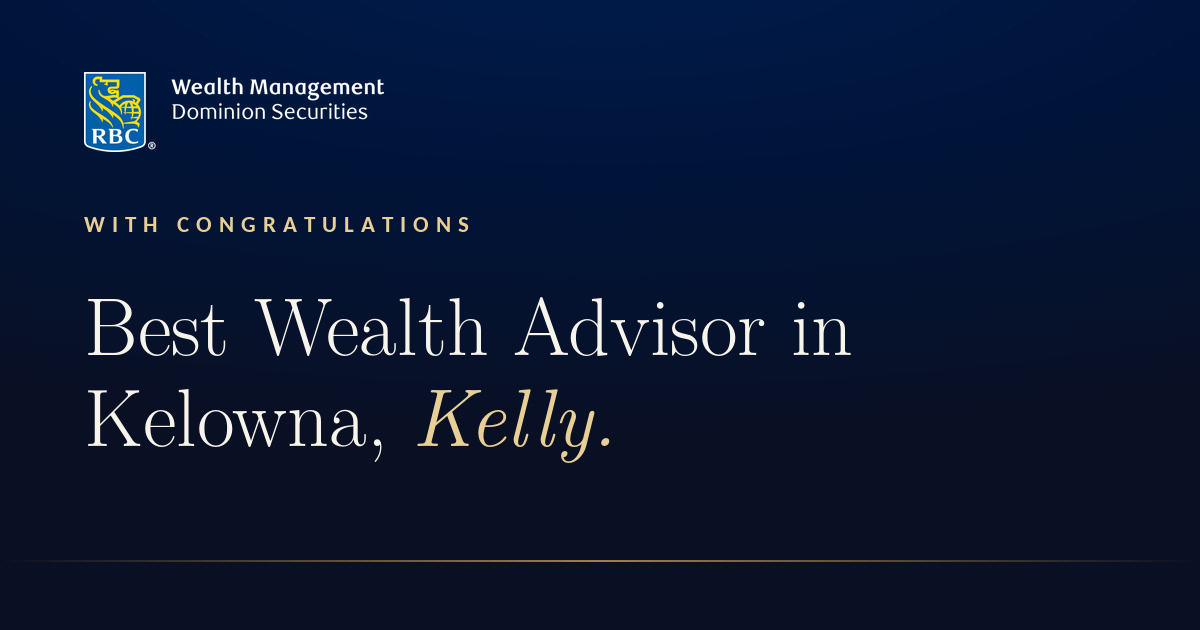
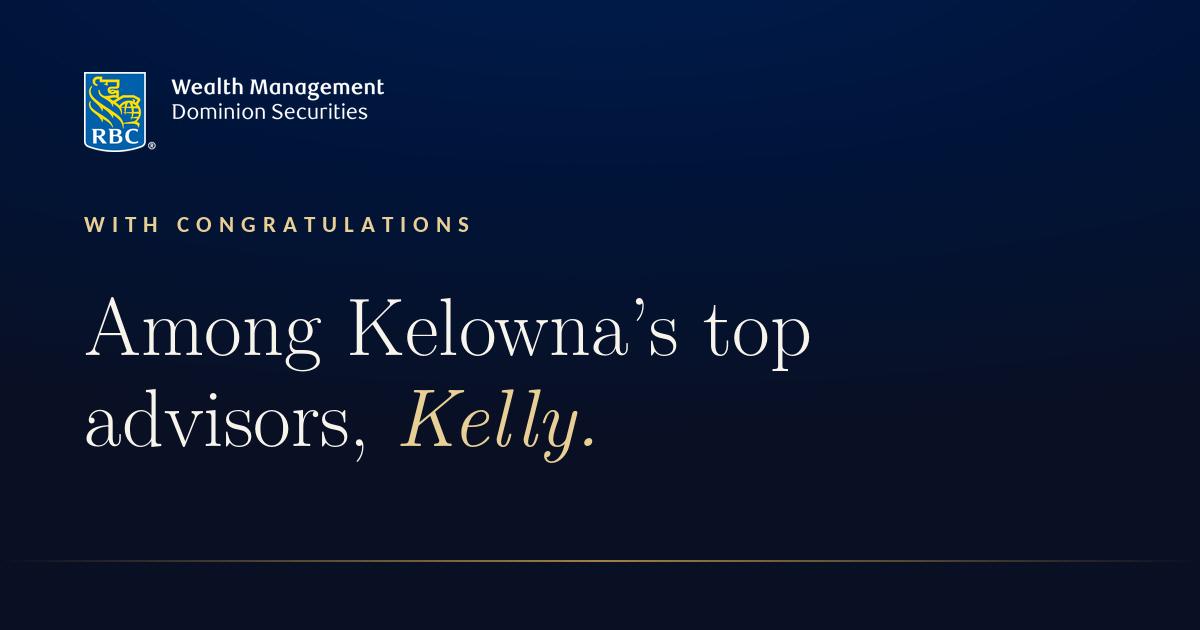
Add files via upload

Changed region(s): [[0.0617, 0.4524, 0.7092, 0.6032], [0.0617, 0.6032, 0.4933, 0.754]]

diff --git a/index.html b/index.html
@@ -11,14 +11,14 @@
      ============================================================ -->
 <meta property="og:type" content="website">
 <meta property="og:title" content="Dinner, on us — congratulations, Kelly">
-<meta property="og:description" content="Best Wealth Advisor in Kelowna. A dinner at Roma Nord, with congratulations from RBC Dominion Securities.">
+<meta property="og:description" content="Top-three across Kelowna's wealth & finance advisor categories. A dinner at Roma Nord, with congratulations from RBC Dominion Securities.">
 <meta property="og:image" content="https://rbc-congrats-kelly.vercel.app/kelly-preview.png">
 <meta property="og:image:width" content="1200">
 <meta property="og:image:height" content="630">
-<meta property="og:image:alt" content="With congratulations, Kelly — Best Wealth Advisor in Kelowna. RBC Dominion Securities.">
+<meta property="og:image:alt" content="With congratulations, Kelly — among Kelowna's top advisors. RBC Dominion Securities.">
 <meta name="twitter:card" content="summary_large_image">
 <meta name="twitter:title" content="Dinner, on us — congratulations, Kelly">
-<meta name="twitter:description" content="Best Wealth Advisor in Kelowna. A dinner at Roma Nord, with congratulations from RBC Dominion Securities.">
+<meta name="twitter:description" content="Top-three across Kelowna's wealth & finance advisor categories. A dinner at Roma Nord, with congratulations from RBC Dominion Securities.">
 <meta name="twitter:image" content="https://rbc-congrats-kelly.vercel.app/kelly-preview.png">
 <link rel="preconnect" href="https://fonts.googleapis.com">
 <link rel="preconnect" href="https://fonts.gstatic.com" crossorigin>
@@ -130,9 +130,9 @@ const EMAIL_ON_OPEN  = false;
 const R = {
   name:"Kelly",
   kicker:"With congratulations",
-  headline:"Best Wealth Advisor in Kelowna, <em>Kelly.</em>",
+  headline:"Among Kelowna's top advisors, <em>Kelly.</em>",
   note:[
-    "Congratulations on being named one of Kelowna's Best Wealth Advisors at this year's Best of Kelowna Awards. It's a real honour, and a reflection of the trust your clients place in you and the standard you set across this community.",
+    "Congratulations on a standout showing at this year's Best of Kelowna Awards — top-three recognition across the wealth and finance advisor categories, from Wealth Advisor to Financial Advisor, Investment Advisor, and Certified Financial Planner. Placing among the best in several categories, not just one, speaks to the trust your clients place in you and the standard you set across this community.",
     "It also didn't go unnoticed that every medalist on this year's Kelowna wealth list was a woman — a genuine milestone, and a credit to advisors like you who are changing what this profession looks like for the women and students watching.",
     "As a congratulations, dinner is on us — an e-gift card to Roma Nord in Kelowna. Just tell us where to send it below and it'll land in your inbox shortly."
   ]
@@ -154,7 +154,7 @@ const MANAGER = {
 };
 
 /* ---- for the alert only ---- */
-const AWARD = "Best Wealth Advisor in Kelowna";
+const AWARD = "Top 3 — Best of Kelowna wealth & finance categories";
 
 /* ============================================================================ */
 